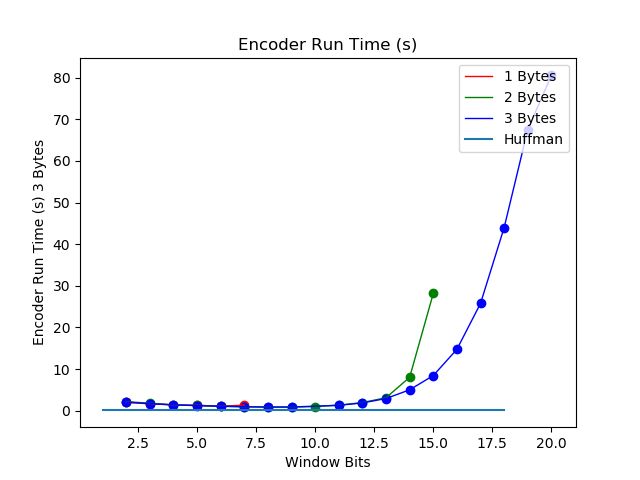
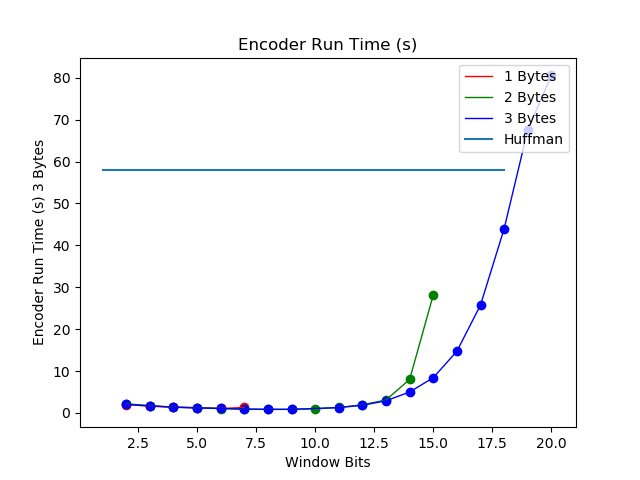
Fixed Graphs

diff --git a/Script_Writing.py b/Script_Writing.py
@@ -35,6 +35,7 @@ def plotGraph(fileName):
     huffmanEncoding, huffmanDecoding, huffmanCompression = float(content[0]), int(content[1]), float(content[2])
     huffmanParameters = [huffmanEncoding, huffmanDecoding, huffmanCompression]
     for graphIndex in range(len(titleNames)):
+        print(titleNames[graphIndex])
         color = ['r', 'g', 'b']
         for parameterIndex in range(len(windowSizes)):
             plt.scatter(windowSizes[parameterIndex], parameters[graphIndex][parameterIndex], color=color[parameterIndex])
@@ -75,7 +76,7 @@ def cleanHuffman(fileName):
     content = open(os.getcwd() + "/log Files/Huffman" + fileName + ".log", "r").read()
     file = open(os.getcwd() + "/Log Files/Huffman" + fileName + ".log", "w")
     data = content.split(",")
-    data[0], data[2] = str(int(data[0]) / 1000), str(round(float(data[2]), 3))
+    data[0], data[2] = str(int(float(data[0]))), str(round(float(data[2]), 3))
     file.write(",".join(data))
 
 
@@ -83,6 +84,7 @@ def cleanWindows(fileName):
     content = open(os.getcwd() + "/log Files/Windows" + fileName + ".log", "r").read().split("\n")
     file = open(os.getcwd() + "/Log Files/Windows" + fileName + ".log", "a+")
     file.write("&True")
+
 
 for file in fileNames:
     plotGraph(file)
